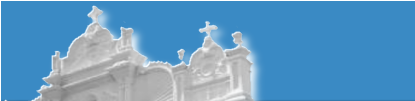
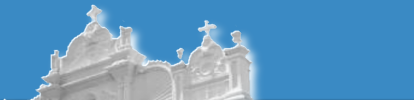
layout changes

diff --git a/public/stylesheets/family.css b/public/stylesheets/family.css
@@ -16,6 +16,11 @@ body a {
 body a:hover {
     text-decoration:underline;
 }
+#home_page_content a:hover {
+    background-color:none;
+    background-image:none;
+}
+
 h1 {
     font-family:Serif, Arial;
     font-size:22px;
@@ -149,7 +154,7 @@ border-color:#fff;
 }
 
 #home_image {
-    background-image:url('../images/home_image.png');
+    background-image:url('../images/home_image_new.png');
     width:798px;
     height:266px;
     background-repeat:none;
@@ -161,6 +166,7 @@ border-color:#fff;
     padding-left:200px;
     padding-top:100px;
     width:400px;
+    text-align:justify;
 }
 
 #home_page_quote {
@@ -191,7 +197,7 @@ border-color:#fff;
 
 #family_container {
     position:relative;
-    top:-200px;
+    top:-100px;
     left:440px;
     width:140px;
     height:200px;
@@ -235,8 +241,40 @@ input {
     border-width:0px;
 
 }
+.left, .right, .user1, .user2, .connect {
+    float:left;
+    width:75px;
+    height:75px;
+    overflow:hidden;
+}
+.user1, .user2 {
+    border:1px solid white;
 
- .siblings {
+}
+.left, .right {
+    background-image:url('../images/sibling_bg.png')
+
+}
+.connect {
+    background-image:url('../images/connect.png');
+    background-repeat:no-repeat;
+    float:left;
+    width:45px;
+    border:0px;
+}
+.left, .right {
+    width:35%;
+}
+.left1 {
+    width:25%;
+    float:left;
+}
+
+.left2 {
+    width:40%;
+    float:left;
+}
+.siblings {
     float:left;
     width:215px;
     height:50px;
@@ -253,13 +291,5 @@ input {
 
 .space {
     width:60px;
-}
-
-.connect {
-    background-image:url('../images/connect.png');
-    background-repeat:no-repeat;
-    float:left;
-    width:45px;
-    border:0px;
 }
 

diff --git a/config/routes.rb b/config/routes.rb
@@ -1,4 +1,6 @@
 ActionController::Routing::Routes.draw do |map|
+  map.tree 'tree', :controller => 'members', :action => 'tree'
+  map.tree 'family_tree', :controller => 'members', :action => 'family_tree'
   map.resources :relations, :collection => {:add_relation=>:post,:find=>:get}
   map.resources :galleries
 

diff --git a/app/controllers/members_controller.rb b/app/controllers/members_controller.rb
@@ -148,6 +148,14 @@ class MembersController < ApplicationController
       format.xml  { head :ok }
     end
   end
+
+  def tree
+  end
+
+  def family_tree
+  end
+
+
 end
 #li #link-to-food ul li a
 
